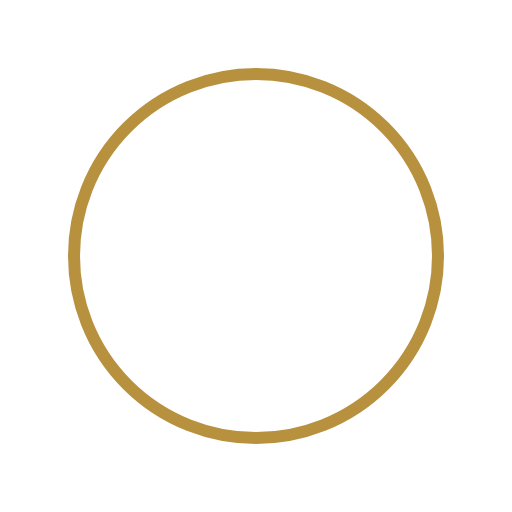
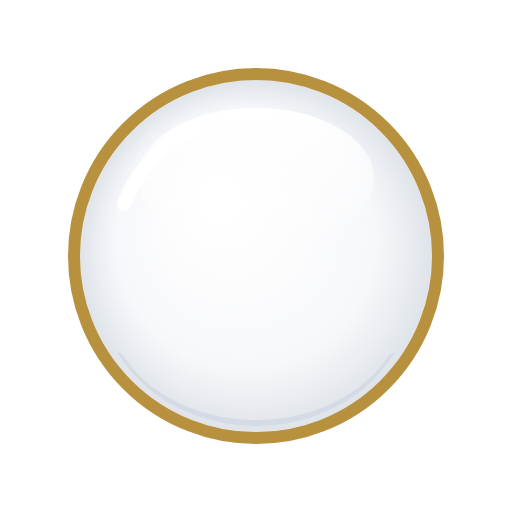
Today's Correspondences: searchable title, description and sitemap; glazed white Clear swatch
Claude-Session: https://claude.ai/code/session_01XEMf5iAfStqwCnALF73gC2

Changed region(s): [[0.1562, 0.1562, 0.8438, 0.8438]]

diff --git a/manuscript/assets/tools.js b/manuscript/assets/tools.js
@@ -261,7 +261,7 @@
     }
     var h = south ? '&h=s' : '', prev = addDays(day, -1), next = addDays(day, 1);
     tool.className = 'pg pg-tool pg-today';
-    render(tool, '<header class="pg-head tool-head">' + crumbs('timing') + '<p class="eyebrow">Today in the Manuscript</p>'
+    render(tool, '<header class="pg-head tool-head">' + crumbs('timing') + '<p class="eyebrow">Today’s Correspondences</p>'
       + '<h1>' + longDate(day) + '</h1>'
       + (R.lede ? '<p class="lede">' + esc(R.lede) + '</p>' : '') + sabbatHtml(day, south)
       + '<p class="small day-nav"><a class="link" href="?d=' + iso(prev) + h + '">‹ ' + short(prev) + '</a><span aria-hidden="true">·</span>'
@@ -271,7 +271,7 @@
       + (favours ? '<section class="tool-section"><h2>Today Favors</h2><p class="small">Intentions tied to more than one of today’s influences. Choose one to build a spell for it.</p><div class="favs">' + favours + '</div></section>' : '')
       + (work ? '<section class="tool-section"><h2>Work with Today</h2><p class="small">Tied to the most of today’s moon, day, sign and season.</p><div class="work-parts">' + work + '</div></section>' : '')
       + '<section class="tool-section two-col">' + (onDay ? '<div><h2>On This Day</h2>' + onDay + '</div>' : '')
-      + (soon.length ? '<div><h2>Coming Up</h2><ul class="soon">' + soon.join('') + '</ul><p class="small"><a class="link" href="' + esc(url('calendar/')) + '">The Full Calendar</a></p></div>' : '') + '</section>', 'Today');
+      + (soon.length ? '<div><h2>Coming Up</h2><ul class="soon">' + soon.join('') + '</ul><p class="small"><a class="link" href="' + esc(url('calendar/')) + '">The Full Calendar</a></p></div>' : '') + '</section>', 'Today’s Correspondences');
   }
 
   /**
@@ -293,12 +293,12 @@
     var box = document.createElement('section');
     box.className = 'today-glance';
     box.setAttribute('aria-labelledby', 'glance-h');
-    box.innerHTML = '<header class="glance-head"><p class="eyebrow">Today in the Manuscript</p>'
+    box.innerHTML = '<header class="glance-head"><p class="eyebrow">Today’s Correspondences</p>'
       + '<h2 id="glance-h">' + longDate(day) + '</h2>'
       + (R.lede ? '<p class="lede">' + esc(R.lede) + '</p>' : '') + sabbatHtml(day, false) + '</header>'
       + influenceCards(R)
       + (R.intents.length ? '<div class="glance-favs"><p class="eyebrow">Today Favors</p><div class="favs">' + R.intents.slice(0, 6).map(function (x) { return favourLink(x, true); }).join('') + '</div></div>' : '')
-      + '<p class="glance-more"><a class="btn ghost" href="' + esc(url('today/')) + '">Open Today</a></p>';
+      + '<p class="glance-more"><a class="btn ghost" href="' + esc(url('today/')) + '">See Today’s Correspondences</a></p>';
     after.after(box);
   }
 
@@ -1357,7 +1357,7 @@
   var GRIMOIRE_TOOLS = {
     ritual: [['spell-builder/', 'Spell Builder']],
     astrology: [['wheel/?of=planets', 'Planet Wheel'], ['wheel/?of=signs', 'Zodiac Wheel'], ['wheel/?of=moon', 'Moon Phase Wheel']],
-    timing: [['today/', 'Today'], ['calendar/', 'Calendar'], ['planetary-hours/', 'Planetary Hours']],
+    timing: [['today/', 'Today’s Correspondences'], ['calendar/', 'Calendar'], ['planetary-hours/', 'Planetary Hours']],
     dream: [['dream-decoder/', 'Dream Decoder']],
     card: [['draw-a-card/', 'Draw a Card']],
     rune: [['pull-a-rune/', 'Pull a Rune']]

diff --git a/manuscript/today/index.html b/manuscript/today/index.html
@@ -3,7 +3,7 @@
 <head>
   <meta charset="utf-8">
   <meta name="viewport" content="width=device-width, initial-scale=1, viewport-fit=cover">
-  <title>Today | The Magick Manuscript</title>
+  <title>Today’s Correspondences: Moon Phase, Planetary Day & Sun Sign | The Magick Manuscript</title>
   <meta name="robots" content="noindex, nofollow">
     <link rel="icon" href="../../favicon.ico" sizes="48x48">
   <link rel="apple-touch-icon" href="../../apple-touch-icon.png">
@@ -44,7 +44,7 @@
   </div>
 </header>
 <main id="main" class="wrap mm-main">
-<article class="pg pg-tool" data-static-tool="today"><p class="lede">Opening the Today…</p></article>
+<article class="pg pg-tool" data-static-tool="today"><p class="lede">Opening the Today’s Correspondences: Moon Phase, Planetary Day & Sun Sign…</p></article>
 </main>
 <footer class="site">
   <div class="wrap foot">

diff --git a/site.js b/site.js
@@ -180,7 +180,7 @@
     teaser.innerHTML = '<p class="teaser-date">' + date + '</p>'
       + '<p class="teaser-sky"><span><img src="' + pic(moon[1]) + '" alt="" width="40" height="40">' + moon[2] + '</span>'
       + '<span><img src="' + pic(sign) + '" alt="" width="40" height="40">The Sun in ' + signName + '</span></p>'
-      + '<a class="link" href="manuscript/today/">See Today in the Manuscript</a>';
+      + '<a class="link" href="manuscript/today/">See Today’s Correspondences</a>';
     teaser.hidden = false;
   }
 

diff --git a/blog/astrology-for-witches.html b/blog/astrology-for-witches.html
@@ -95,7 +95,7 @@
     gtag('config', 'G-0DV5GLQV05');
   </script>
   <script src="../cookie-consent.js?v=eac81a8d9c" defer></script>
-  <script src="../site.js?v=6d913d159e" defer></script>
+  <script src="../site.js?v=d0d3e4cb0b" defer></script>
 </head>
 <body>
 <a class="skip" href="#main">Skip to main content</a>

diff --git a/blog/candle-magick-for-beginners.html b/blog/candle-magick-for-beginners.html
@@ -95,7 +95,7 @@
     gtag('config', 'G-0DV5GLQV05');
   </script>
   <script src="../cookie-consent.js?v=eac81a8d9c" defer></script>
-  <script src="../site.js?v=6d913d159e" defer></script>
+  <script src="../site.js?v=d0d3e4cb0b" defer></script>
 </head>
 <body>
 <a class="skip" href="#main">Skip to main content</a>

diff --git a/blog/crystals-for-beginners.html b/blog/crystals-for-beginners.html
@@ -95,7 +95,7 @@
     gtag('config', 'G-0DV5GLQV05');
   </script>
   <script src="../cookie-consent.js?v=eac81a8d9c" defer></script>
-  <script src="../site.js?v=6d913d159e" defer></script>
+  <script src="../site.js?v=d0d3e4cb0b" defer></script>
 </head>
 <body>
 <a class="skip" href="#main">Skip to main content</a>

diff --git a/blog/essential-witch-tools-for-beginners.html b/blog/essential-witch-tools-for-beginners.html
@@ -95,7 +95,7 @@
     gtag('config', 'G-0DV5GLQV05');
   </script>
   <script src="../cookie-consent.js?v=eac81a8d9c" defer></script>
-  <script src="../site.js?v=6d913d159e" defer></script>
+  <script src="../site.js?v=d0d3e4cb0b" defer></script>
 </head>
 <body>
 <a class="skip" href="#main">Skip to main content</a>

diff --git a/blog/herbalism-for-witches.html b/blog/herbalism-for-witches.html
@@ -95,7 +95,7 @@
     gtag('config', 'G-0DV5GLQV05');
   </script>
   <script src="../cookie-consent.js?v=eac81a8d9c" defer></script>
-  <script src="../site.js?v=6d913d159e" defer></script>
+  <script src="../site.js?v=d0d3e4cb0b" defer></script>
 </head>
 <body>
 <a class="skip" href="#main">Skip to main content</a>

diff --git a/blog/how-my-witchcraft-practice-has-changed.html b/blog/how-my-witchcraft-practice-has-changed.html
@@ -95,7 +95,7 @@
     gtag('config', 'G-0DV5GLQV05');
   </script>
   <script src="../cookie-consent.js?v=eac81a8d9c" defer></script>
-  <script src="../site.js?v=6d913d159e" defer></script>
+  <script src="../site.js?v=d0d3e4cb0b" defer></script>
 </head>
 <body>
 <a class="skip" href="#main">Skip to main content</a>

diff --git a/blog/how-to-cast-a-spell-for-beginners.html b/blog/how-to-cast-a-spell-for-beginners.html
@@ -95,7 +95,7 @@
     gtag('config', 'G-0DV5GLQV05');
   </script>
   <script src="../cookie-consent.js?v=eac81a8d9c" defer></script>
-  <script src="../site.js?v=6d913d159e" defer></script>
+  <script src="../site.js?v=d0d3e4cb0b" defer></script>
 </head>
 <body>
 <a class="skip" href="#main">Skip to main content</a>

diff --git a/blog/how-to-celebrate-samhain.html b/blog/how-to-celebrate-samhain.html
@@ -95,7 +95,7 @@
     gtag('config', 'G-0DV5GLQV05');
   </script>
   <script src="../cookie-consent.js?v=eac81a8d9c" defer></script>
-  <script src="../site.js?v=6d913d159e" defer></script>
+  <script src="../site.js?v=d0d3e4cb0b" defer></script>
 </head>
 <body>
 <a class="skip" href="#main">Skip to main content</a>

diff --git a/blog/how-to-dispose-of-a-spell.html b/blog/how-to-dispose-of-a-spell.html
@@ -95,7 +95,7 @@
     gtag('config', 'G-0DV5GLQV05');
   </script>
   <script src="../cookie-consent.js?v=eac81a8d9c" defer></script>
-  <script src="../site.js?v=6d913d159e" defer></script>
+  <script src="../site.js?v=d0d3e4cb0b" defer></script>
 </head>
 <body>
 <a class="skip" href="#main">Skip to main content</a>
